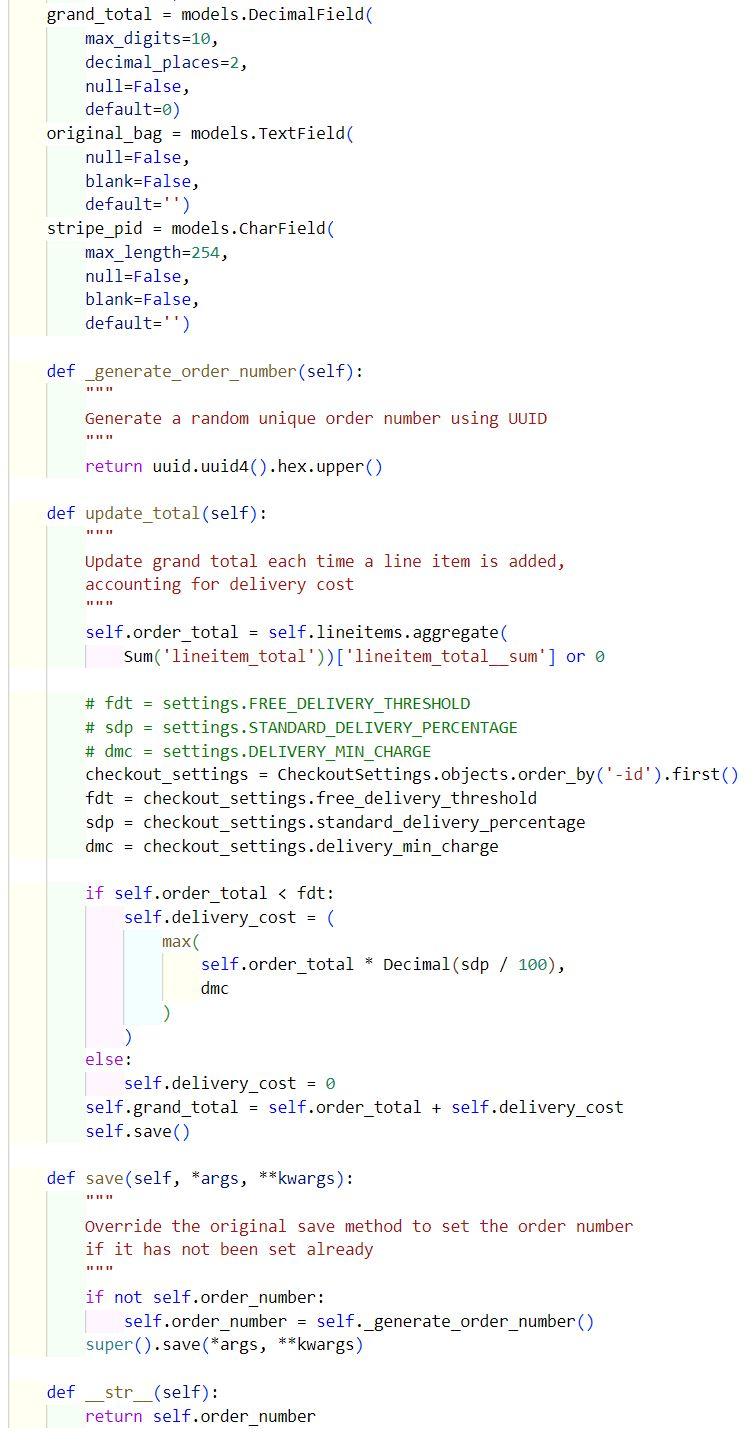
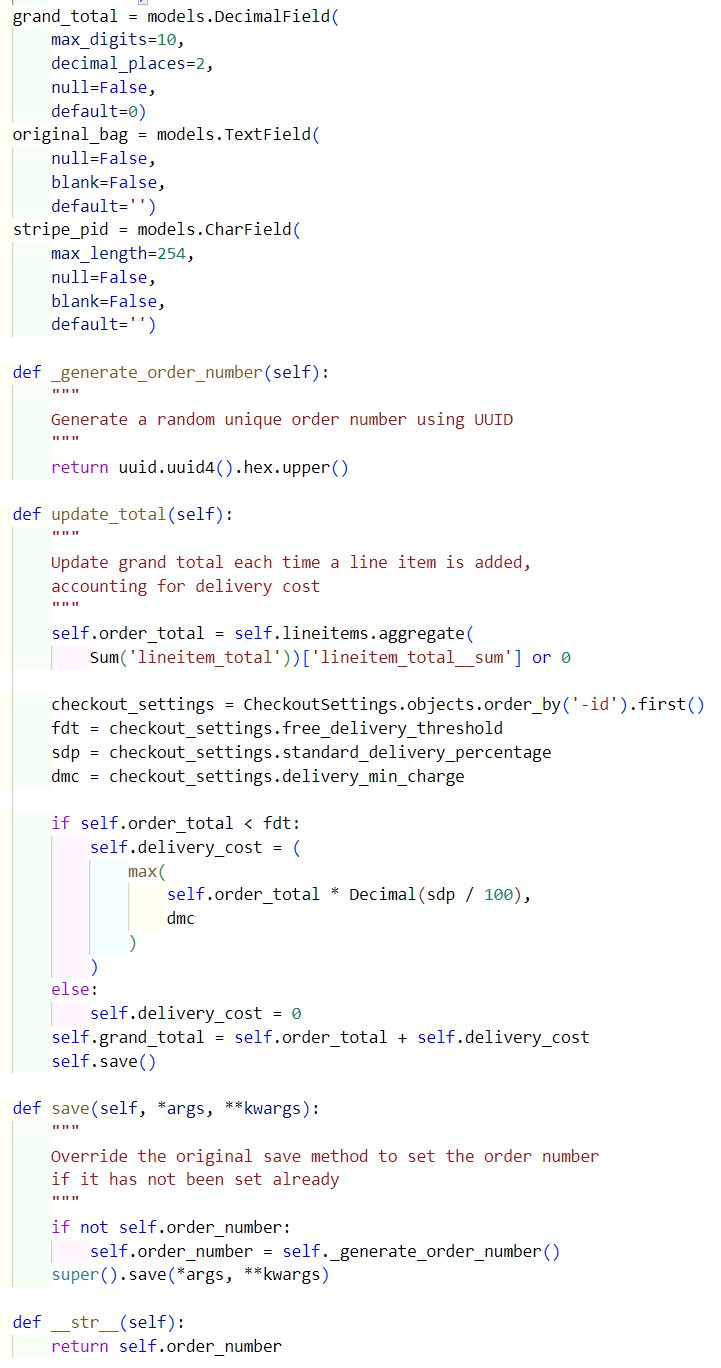
Complete description of models in Readme

diff --git a/checkout/models.py b/checkout/models.py
@@ -105,9 +105,6 @@ class Order(models.Model):
         self.order_total = self.lineitems.aggregate(
             Sum('lineitem_total'))['lineitem_total__sum'] or 0
 
-        # fdt = settings.FREE_DELIVERY_THRESHOLD
-        # sdp = settings.STANDARD_DELIVERY_PERCENTAGE
-        # dmc = settings.DELIVERY_MIN_CHARGE
         checkout_settings = CheckoutSettings.objects.order_by('-id').first()
         fdt = checkout_settings.free_delivery_threshold
         sdp = checkout_settings.standard_delivery_percentage

diff --git a/README.md b/README.md
@@ -444,7 +444,7 @@ Relationships
 <details>
 <summary>Click here to view the model</summary>
 
-![screenshot of Post model](readme/docs/images/database/homesettings_model.jpg)
+![screenshot of HomeSettings model](readme/docs/images/database/homesettings_model.jpg)
 </details>
 <br>
 
@@ -455,32 +455,55 @@ Relationships
 
 - Part of products app.
 - Represents all pieces of art in the gallery, both the ones available for sale and not available.
+- This model contains the following fields: title, sku, excerpt, description, price, image, category, orientation, is_unique, priority, highlight, available, live, created_on, updated_on.
 
 Relationships
 - It has one-to-many relationship with Category model (one category can be related with many products).
 - It has one-to-many relationship with OrderLineItem model (one product can be related with many line items).
 
 <details>
-<summary>Click here to view Contact model</summary>
+<summary>Click here to view Product model</summary>
 
-![screenshot of Contact model](readme/docs/images/database/product_model.jpg)
+![screenshot of Product model](readme/docs/images/database/product_model.jpg)
 </details>
+
+<br>
 
 ### Model: Category
 
 - Part of products app.
 - Represents categories of the pieces of art in the gallery.
+- This model contains the following fields: name, friendly_name.
 
 Relationships
 - It has one-to-many relationship with Product model (one category can be related with many products).
 
 <details>
-<summary>Click here to view Contact model</summary>
+<summary>Click here to view Category model</summary>
 
-![screenshot of Contact model](readme/docs/images/database/category_model.jpg)
+![screenshot of the model](readme/docs/images/database/category_model.jpg)
 </details>
 <br>
 
+
+***App: testimonials***
+
+### Model: Testimonial
+
+- Part of testimonials app.
+- Represents entries shown on the About Me page. Entries made by registered users need to be approved by owner and after approval are shown in the Testimonials / Feedback section. Entries made by owner and marked as "About Me" (about_me marked as True in the form) are shown on the same page in the About Me section.
+- This model contains the following fields: title, author, content, craeted_on, updated_on, priority, about_me, live.
+
+Relationships
+- It has one-to-many relationship with User model (one user can be related with many entries).
+
+<details>
+<summary>Click here to view Testimonial model</summary>
+
+![screenshot of Testimonial model](readme/docs/images/database/testimonial_model.jpg)
+</details>
+
+<br>
 
 ### Definitions
 
